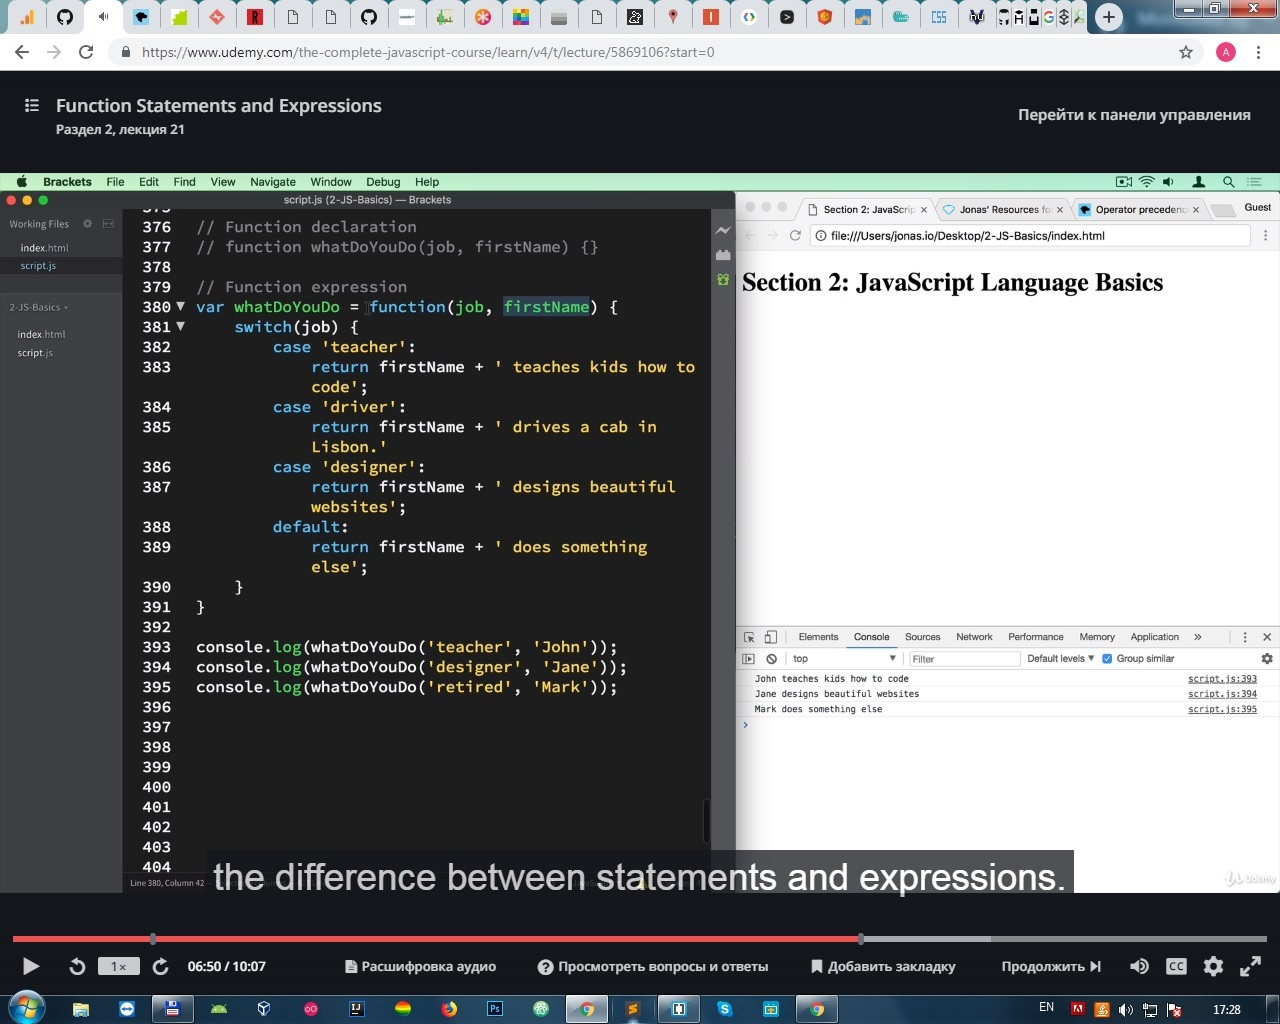
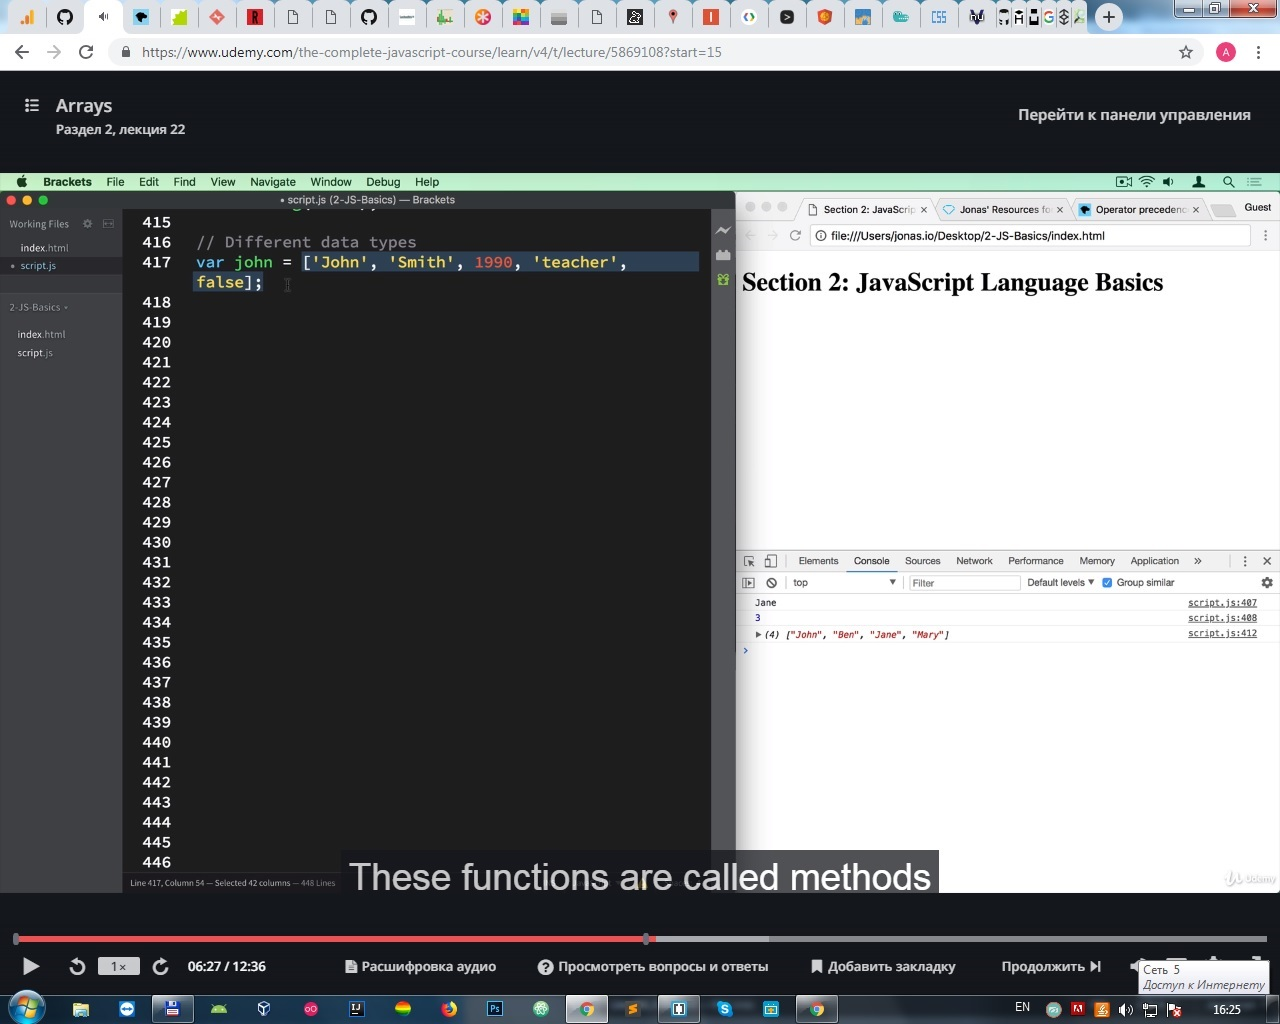
next_section_js

diff --git a/course_by_js/complete-javascript-course/2-JS-basics/starter/script.js b/course_by_js/complete-javascript-course/2-JS-basics/starter/script.js
@@ -357,17 +357,105 @@ console.log (whatDoYouDo('doctor', 'Sara'));
 console.log (whatDoYouDo('teacher', 'Marry'));
 
 
+/***************************
+* Arrays
+*/
+
+// Initialize new data
+var names = ['Jonh','Mark','Jane'];
+var years = new Array(1969,1978,1977);
+
+console.log(names[2]);
+console.log(names.length);
+
+
+// Mutate array data
+names[1] = 'Wolter';
+names[names.length] = 'Stiv';
+console.log(names);
+
+
+//Different data types
+
+var jonh = ['Jonh','Smith',1993,'Teacher',false];
+
+jonh.push('blue'); //after add
+jonh.unshift('Mr.'); //before add
+console.log(jonh);
+
+jonh.pop(); //remove last
+jonh.pop();
+jonh.shift(); //remove first
+console.log(jonh);
+
+console.log(jonh.indexOf(56));
+
+var isDesigner = jonh.indexOf('Designer') === -1 ?
+	'Jonh is NOT a designer':'Jonh is a designer';
+console.log(isDesigner);
+
+
+/***************************
+* Coding Challenge 3
+*/
+
+function tipCalculator(bill){
+	var percantage;
+	if(bill<50){
+		percantage=.2;
+	} else if (bill>=50 && bill<200){
+		percantage=.15;
+	} else if (bill>200){
+		percantage=.1;
+	} 
+	return bill*percantage;
+}
+
+	bills = [124,48,268];
+	console.log(tipCalculator(bills[0]),
+			   	tipCalculator(bills[1]),
+			   	tipCalculator(bills[2]));
+	
+	console.log(bills[0]+tipCalculator(bills[0])+" , ",
+			   	bills[1]+tipCalculator(bills[1])+" , ",
+			   	bills[2]+tipCalculator(bills[2])+".");
+
+	bills[0]>bills[1] && bills[0]>bills[2] ?
+		console.log("The biggest tip was in the first restaurant") :
+	bills[1]>bills[0] && bills[1]>bills[2] ?
+		console.log("The biggest tip was in the second restaurant") :
+	bills[2]>bills[0] && bills[2]>bills[1] ?
+		console.log("The biggest tip was in the third restaurant"):
+		console.log("Nowhere");
+
+	
 
 
 
+// less 50$ = 20%
+// 50$ - 200$ = 15%	
+// more 200$ = 10%
+
+var browser = prompt("Enter your browser: ", "");
+if (browser === "IE") {
+alert( 'О, да у вас IE!' );
+} else if (browser === "Chrome"||browser === "Opera"||browser === "Firefox"||browser === "Safari") {
+alert( 'Да, и эти браузеры мы поддерживаем' );
+} else {
+alert( 'Мы надеемся, что и в вашем браузере все ок!' );
+	   } 
+			 
+
+	var password = prompt("Please, enter you password:");
+	if(password==="131093"){
+	alert("You entered your password right!");
+} else{
+	alert("Try to enter your paswword again");
+	setTimeout(password,1000);
+}
 
 
-
-
-
-
-
-
+	
 
 
 
